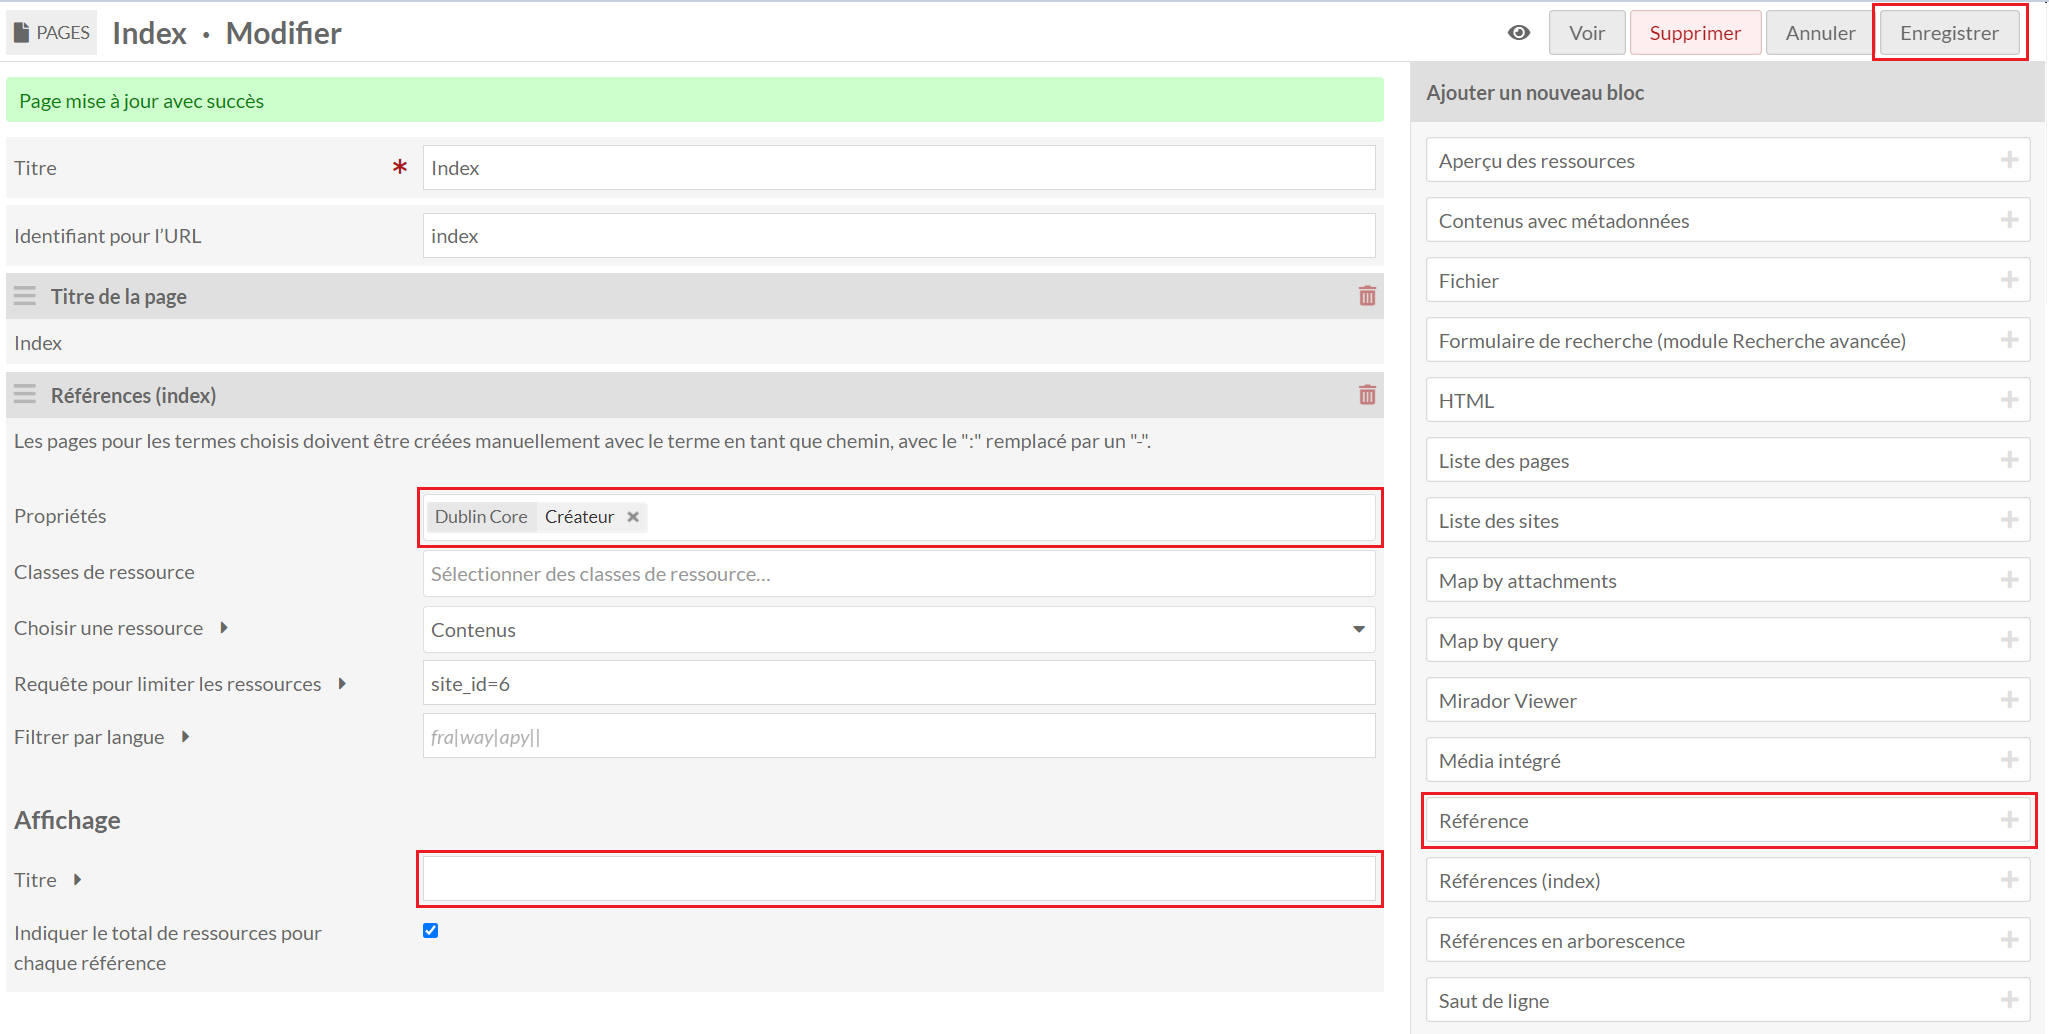
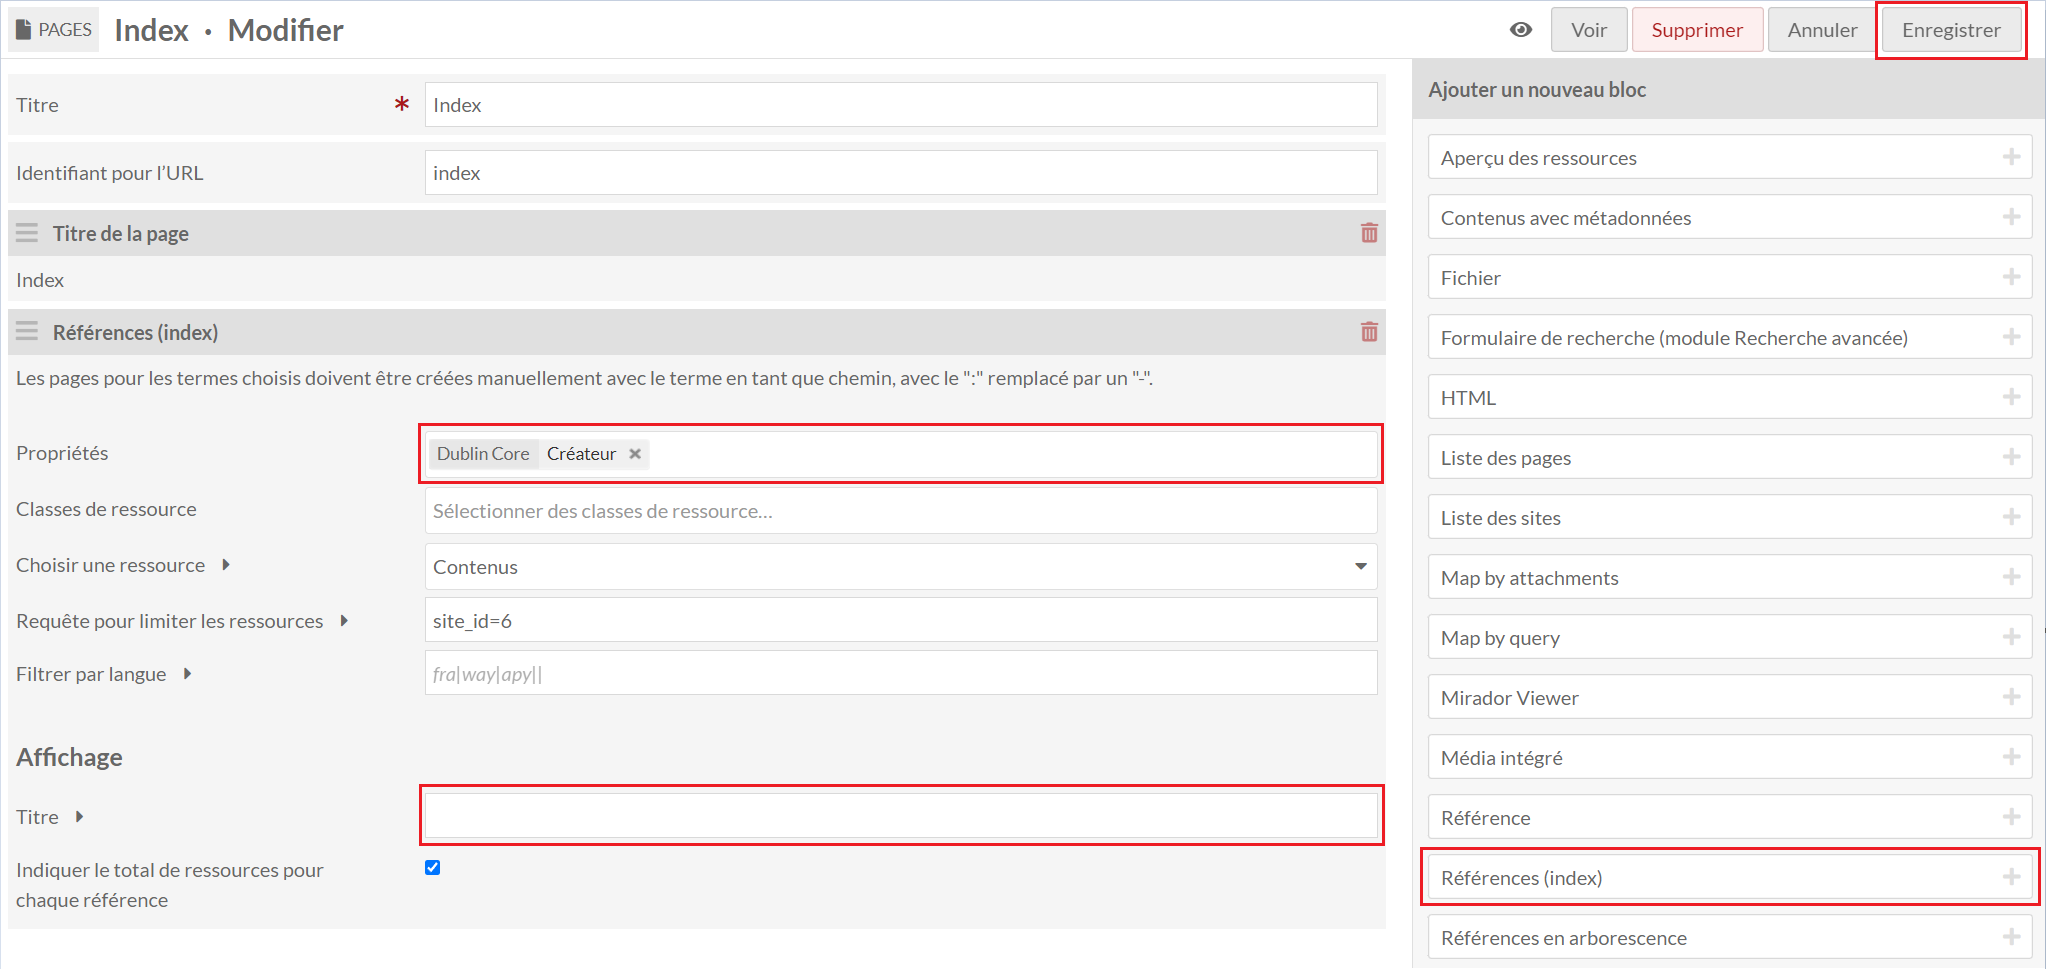
Màj création liste index

diff --git a/docs/module-references.md b/docs/module-references.md
@@ -37,7 +37,7 @@ Le champ **Titre** est libre. Pour le champ **Identifiant de l'URL**, il faut in
 
 Il existe plusieurs manières de créer la liste des index avec différents blocs.
 
-### Avec le bloc Références
+### Avec le bloc Références (index)
 
 ![Ajout du bloc Référence](assets/creation-liste-index-3.png)
 
